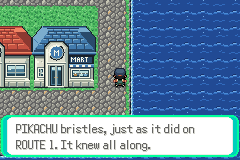
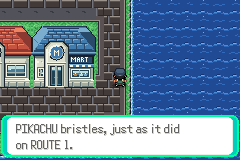
Pikachu watches the stranger: the story copy's F1 changes
The story copy (approved 9 November, section F1) on this pull request:

- RB_Text_PikachuBristlesAgain (Cinnabar's reveal): "PIKACHU bristles, just as it did on ROUTE 1." The last
  sentence, "It knew all along.", winked at the player.
- The optional middle of the thread (the audit's E2), taken as the owner approved it: at Silph's wavering
  veil (MW05), with the companion (FLAG_SYS_POKEMON_GET), after "The traveler's outline wavers: a long tail,
  an unfamiliar head.": "PIKACHU's ears flatten. It stares at the traveler's shadow." (RB_PikachuStares).
  MW05_Text is split in two round it (MW05_Text, MW05_Text_Stranger); the words are unchanged.

Tests: new silph pikachu stares at the travelers shadow; cinnabar pikachu bristles at mewtwo ends on the new
line. Three Cinnabar screens re-accepted: v2-main's basalt setts (KR-100), from the merge. The campaign
guide's MW05 and MW06 entries and the story check's history follow.

Claude-Session: https://claude.ai/code/session_01XMJF17U18XtbfGGgKpeJmb

diff --git a/project/docs/story-sanity-check.md b/project/docs/story-sanity-check.md
@@ -653,3 +653,4 @@ Checkpoints are game saves, so they still load after a map change, as long as th
 | 2026-11-06 | `claude/kanto-story-scenes`: story scenes that couldn't play right (KR-109): the Silph scientist's RB06, the Friends' camps from any side, Cinnabar's volcano walkers kept near their spots, LB's walk round Viridian's sign | **Steps 19–24, 316–317 and 326–361 pass** (the Friends' arrival in Viridian and on to its Center; Celadon after Silph onto Route 16; Cinnabar from the sea to Bill and the Surf west), first try, from the checkpoints before them, on the final build (ROM `b57e6357`; 61 s, 43 s, 961 s). |
 | 2026-11-09 | `claude/story-nao-road-home` (#88, with v2-main merged): Nao's road home with the story copy's F1 changes: Oak's two Nao lines inside his once-only referral, Nao's Ecruteak introduction reworded, Mr. Fuji reads Nao's letter once (`FLAG_RB_FUJI_LETTER_READ`, 0x0B1) and later says it is on his table before asking about the flute | **Steps 12–13 and 198–201 pass** (Oak's lab and the Pokédex; Fuji's rescue, the Poké Flute, out of his house and onto Route 12), first try, from the checkpoints before them, on the final build (ROM `92a919e9`; 46 s, 51 s). The changed lines play only after the Kanto League or Johto's welcome, past the check's end, so the last validated point is unchanged. `pae test run`: 620 pass (three new, two rewritten). |
 | 2026-11-09 | `claude/story-stranger-visitors` (#90, with v2-main merged): the stranger notices the other visitors, with the story copy's F1 changes: his Celadon question (MW04) names Rocket, and in Cerulean Cave Mewtwo's line about Rocket's birds comes before his battle offer | **Steps 170–175 pass** (out of the Hideout and the Game Corner, Celadon Mansion's Tea, east onto Route 7: Celadon after the Hideout, where the stranger stands), first try, from step 169's checkpoint, on the final build (ROM `c0af7796`; 181 s). Talking to the stranger is optional and Cerulean Cave comes after the League, so the check plays neither; the last validated point is unchanged. |
+| 2026-11-09 | `claude/story-pikachu-stranger` (#92, with v2-main merged): Pikachu watches the stranger, with the story copy's F1 changes: at Cinnabar's reveal "PIKACHU bristles, just as it did on ROUTE 1." ("It knew all along." gone), and at Silph's wavering veil (MW05) "PIKACHU's ears flatten. It stares at the traveler's shadow." | **Steps 18–19, 277–278 and 326–361 pass** (Route 1's opening with Pikachu's line and step 18's 42 presses, on into Viridian; down Silph Co. to its lobby and out; all of Cinnabar from the sea to the Surf west), first try, from the checkpoints before them, on the final build (ROM `7e76f5cb`; 29 s, 24 s, 974 s). The check plays neither the Silph veil (it needs the Master Ball from Silph's president) nor Cinnabar's reveal, so the last validated point is unchanged. `pae test run`: 640 pass (one new). |

diff --git a/project/docs/campaign-story-and-progression-guide.md b/project/docs/campaign-story-and-progression-guide.md
@@ -654,7 +654,7 @@ Questions Poké Balls after opposing Rocket. Since 2026-10-31 (story audit T2), 
 
 **37C source:** [`MW05_Visibility`]([LOCAL_WORKSPACE]/_local/worktrees/pikachu-bike-37c-dev/data/scripts/rainbow_story.inc:492). [Exact dialogue / choices / original captures]([LOCAL_WORKSPACE]/_local/evidence/rainbow-story-01/story-review-01/story-review.html).
 
-A temporary Mewtwo reveal, returned disguise, then possible Mew glimpse.
+A temporary Mewtwo reveal, returned disguise, then possible Mew glimpse. Since 2026-11-09 (story copy F1, the middle of the Pikachu thread between Route 1 and Cinnabar), after “The traveler’s outline wavers: a long tail, an unfamiliar head.” and before the stranger speaks, the companion Pikachu (`FLAG_SYS_POKEMON_GET`): “PIKACHU’s ears flatten. It stares at the traveler’s shadow.” (`RB_PikachuStares`; `MW05_Text` is split in two round it). Nothing is written. Replay test `silph pikachu stares at the travelers shadow`.
 
 ### MW06 — Cinnabar reveal
 
@@ -664,7 +664,7 @@ A temporary Mewtwo reveal, returned disguise, then possible Mew glimpse.
 
 **37C source:** [`MW06_Visibility`]([LOCAL_WORKSPACE]/_local/worktrees/pikachu-bike-37c-dev/data/scripts/rainbow_story.inc:518). [Exact dialogue / choices / original captures]([LOCAL_WORKSPACE]/_local/evidence/rainbow-story-01/story-review-01/story-review.html).
 
-Journals context, unique Mewtwo reveal, invitation/choice responses and Mew observer. Since 2026-10-31 (story audit E1), the companion Pikachu closes the thread it opened on Route 1: as the veil falls, “PIKACHU bristles, just as it did on ROUTE 1. It knew all along.” (“PIKACHU bristles and steps between you and MEWTWO.” if the Route 1 meeting never happened, `FLAG_MW01_SEEN` unset), and after Mewtwo’s answer, “PIKACHU watches it go. Its fur slowly settles.” Nothing is written. Replay tests `cinnabar pikachu bristles at mewtwo`, `cinnabar pikachu settles as mewtwo leaves`, `cinnabar pikachu bristles without the route 1 meeting`.
+Journals context, unique Mewtwo reveal, invitation/choice responses and Mew observer. Since 2026-10-31 (story audit E1), the companion Pikachu closes the thread it opened on Route 1: as the veil falls, “PIKACHU bristles, just as it did on ROUTE 1.” (since 2026-11-09, story copy F1: “It knew all along.” winked at the player and is gone) (“PIKACHU bristles and steps between you and MEWTWO.” if the Route 1 meeting never happened, `FLAG_MW01_SEEN` unset), and after Mewtwo’s answer, “PIKACHU watches it go. Its fur slowly settles.” Nothing is written. Replay tests `cinnabar pikachu bristles at mewtwo`, `cinnabar pikachu settles as mewtwo leaves`, `cinnabar pikachu bristles without the route 1 meeting`.
 
 ### MW07 — Route22 question
 
